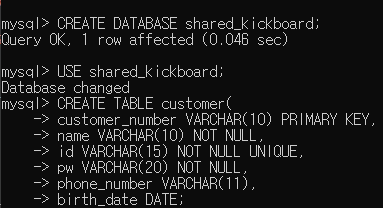
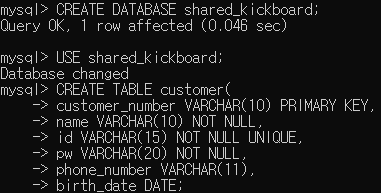
update

Changed region(s): [[0.0, 0.2487, 0.9816, 0.9948], [0.0, 0.0, 0.8373, 0.2176]]

diff --git a/content/posts/mysql_st.md b/content/posts/mysql_st.md
@@ -21,7 +21,11 @@ CREATE DATABASE shared_kickboard;
 
 USE shared_kickboard;
 ```
-![테이블생성 결과](images/db/create_db.png)
+### 💻 DB생성 결과
+
+![DB 생성](/images/db/create_db.png)
+
+> `SHOW DATABASES;`를 실행하여 생성된 DB확인가능
 ---
 
 # 📋 테이블 설계
@@ -63,6 +67,15 @@ CREATE TABLE customer(
 
 ---
 
+### 💻 TABLE 생성
+
+![TABLE 생성](/images/db/create_table_c.png)
+![TABLE 구조](/images/db/DESC_c.png)
+
+> `SHOW TABLES;`를 실행하여 생성된 TABLE확인가능
+> `DESC customer;` 로 테이블 구조 확인
+
+
 ## 🏢 Brand 테이블
 
 킥보드 브랜드 정보를 저장한다.
@@ -74,6 +87,10 @@ CREATE TABLE brand(
     company VARCHAR(20) NOT NULL
 );
 ```
+
+### 💻 TABLE 생성
+
+![TABLE 생성](/images/db/create_table_b.png)
 
 ---
 
@@ -92,6 +109,10 @@ CREATE TABLE kickboard(
         REFERENCES brand(brand_number)
 );
 ```
+### 💻 TABLE 생성
+
+![TABLE 생성](/images/db/create_table_k.png)
+
 
 ### 💡 설계 포인트
 
@@ -123,6 +144,14 @@ CREATE TABLE borrow(
 );
 ```
 
+### 💻 TABLE 생성
+
+![TABLE 생성](/images/db/create_table_borrow.png)
+
+### 💻 생성한 TABLE 보기
+
+![TABLE](/images/db/show_table.png)
+
 ### 💡 설계 포인트
 
 - 회원번호와 대여시간을 **복합 기본키(Composite Primary Key)** 로 사용하였다.
@@ -144,6 +173,10 @@ VALUES('0012616925','이서연','flykite','HASH-u73ylz5jao','21865059766','1995-
 INSERT INTO customer
 VALUES('0187642351','김민준','kmax6','HASH-lui235dfi2','08786173448','1989-03-09');
 ```
+
+### 💻 데이터 삽입
+
+![INSERT TO TABLE](/images/db/insert.png)
 
 ---
 
@@ -228,6 +261,10 @@ ON c.customer_number = b.customer_number;
 |김민준|대여|
 |김민준|반납|
 
+### 💻 borrow 테이블과 customer 테이블 조인 후 대여정보 출력
+
+![SELECT](/images/db/select_borrow.png)
+
 ---
 
 ## 특정 회사의 킥보드 조회
@@ -272,6 +309,9 @@ GRANT SELECT
 ON shared_kickboard.*
 TO jm@localhost;
 ```
+### 💻 사용자 생성 및 SELECT권한부여 예시
+
+![grant](/images/db/user_grant.png)
 
 ---
 
@@ -280,6 +320,9 @@ TO jm@localhost;
 ```sql
 SHOW GRANTS FOR jm@localhost;
 ```
+### 💻 권한 확인 이미지
+
+![show_grant](/images/db/show_grant.png)
 
 ---
 
@@ -290,6 +333,10 @@ REVOKE SELECT
 ON shared_kickboard.*
 FROM jm@localhost;
 ```
+
+### 💻 권한 회수 후 확인
+
+![show_grant](/images/db/revoke.png)
 
 ---
 
@@ -339,6 +386,11 @@ FROM customer;
 ALTER TABLE customer
 DROP INDEX customer_index;
 ```
+
+### 💻 인덱스 생성 및 삭제
+
+![index](/images/db/create_index_drop_index.png)
+
 
 ### 💡 언제 인덱스를 사용할까?
 